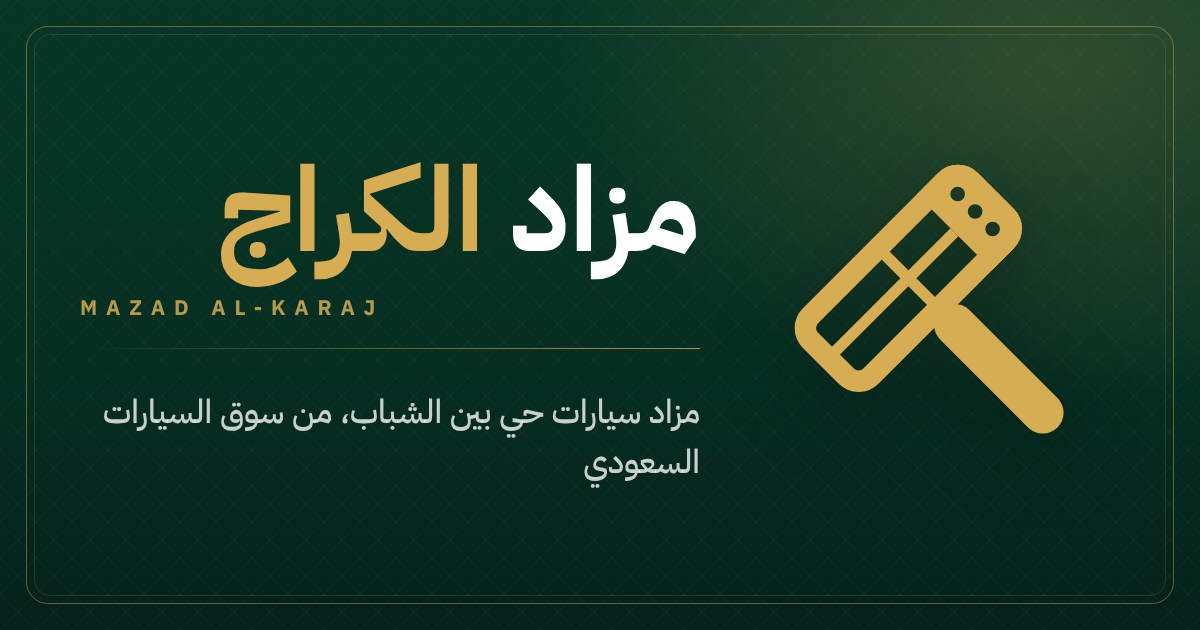
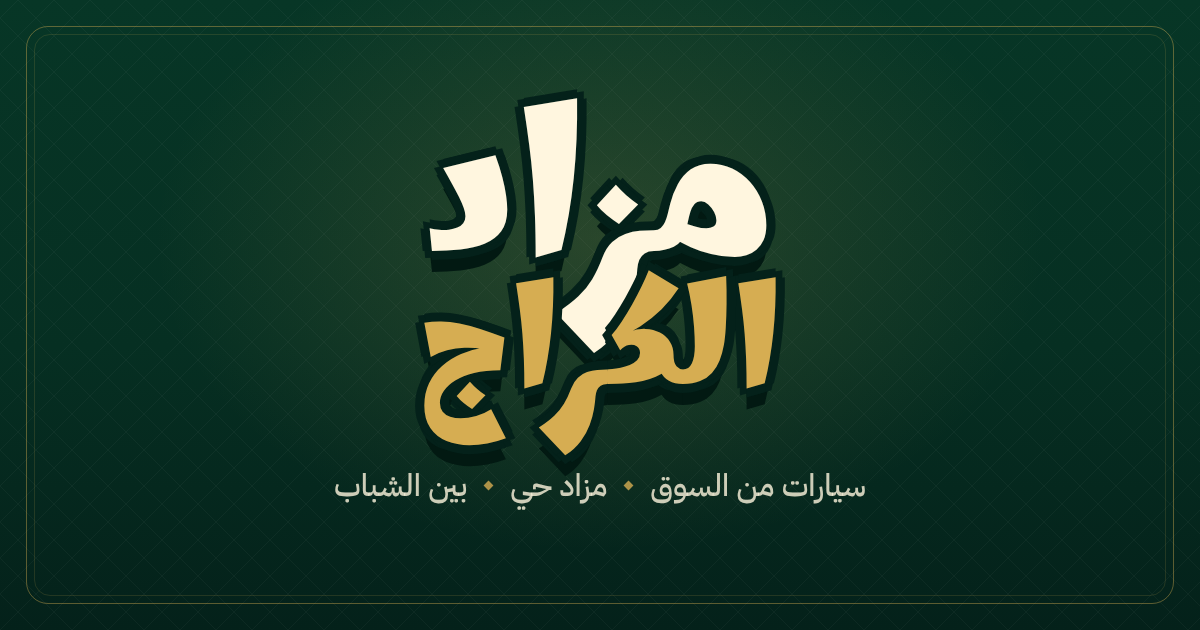
Brand: stacked Marhey title and meem monogram replace the gavel mark
The owner asked for the two words stacked as a playful game title
instead of the plate/gavel concept, so the identity is now type-led:

- Wordmark: «مزاد» over «الكراج» in Marhey Bold (real text), cream over
  gold, sized so both lines run the same width, the ز of «مزاد» dropping
  into the line below; a thin dark ring plus a hard drop shadow keeps
  the locked lines readable and gives the title its sticker feel
- LogoMark: the Marhey «م», outlined to a path (no font needed), used by
  GavelMark in the round header seal
- Header (.brand-name) stacks the existing «مزاد <b>الكراج</b>» markup
  through brand.css only; the seal becomes a round gold ring
- favicon.svg, apple-touch-icon.png and og.png redrawn from the new
  lettering; @fontsource/marhey added (700 weight imported in main.tsx)

Claude-Session: https://claude.ai/code/session_01GJA9LqLvcHsRmQeKeLFNUG

Changed region(s): [[0.0925, 0.0, 1.0, 0.7238], [0.2775, 0.7238, 0.7092, 0.8143], [0.0617, 0.4825, 0.3083, 0.5127]]

diff --git a/src/ui/components/Logo.tsx b/src/ui/components/Logo.tsx
@@ -1,56 +1,24 @@
 /**
- * The brand mark of مزاد الكراج: an auctioneer's gavel whose head is a Saudi number plate.
+ * مزاد الكراج — brand.
  *
- * The head carries the plate's own geometry: the black border, the face split in four (numbers |
- * letters, Arabic over Latin) and the nationality strip at the end, here with three dots where
- * K·S·A sit. The gavel's shaft continues the plate's centre divider, so plate and gavel share one
- * axis. Everything is drawn on a 64-unit grid, tilted 45°, in currentColor.
- *
- * `full` is the mark from ~24px up; `compact` (solid head, strip cut off by a gap) is for favicons
- * and anything ≤ 20px, where the plate's fine lines would turn to mush.
+ * The identity is the stacked title: «مزاد» over «الكراج», set in Marhey Bold (real text, so the
+ * Arabic shapes and joins come from the font), «مزاد» large in cream, «الكراج» smaller in gold so
+ * both lines run the same width, with the ز of «مزاد» dropping into the line below.
+ * The monogram is the Marhey «م» from the same title, outlined to a path so it needs no font.
  */
+
+/** Marhey Bold «م» (isolated), outlined, on a 64-unit square. */
+const MEEM =
+  'M17.57 54Q17.03 51 16.6 47.29Q16.17 43.59 16.17 40.53Q16.17 36.72 17.03 33.56Q17.89 30.39 20.03 28.46Q20.62 27.92 21.38 27.55Q21.48 26.2 21.64 24.7Q21.97 22.07 22.74 19.5Q23.52 16.92 24.84 14.78Q26.15 12.63 28.14 11.31Q30.12 10 32.86 10Q35.86 10 38.57 11.26Q41.28 12.52 43.38 14.75Q45.47 16.98 46.65 19.82Q47.83 22.66 47.83 25.88Q47.83 28.89 46.65 30.69Q45.47 32.48 43.62 33.29Q41.77 34.09 39.73 34.09Q38.12 34.09 36.29 33.69Q34.47 33.29 32.78 32.91Q31.09 32.54 29.75 32.54Q28.73 32.54 28.11 32.97Q27.49 33.4 27.22 34.17Q26.96 34.95 26.96 36.02Q26.96 37.37 27.33 39.16Q27.71 40.96 28.35 42.87Q29 44.77 29.69 46.49Q30.39 48.2 31.03 49.39ZM27.33 26.63Q27.81 26.69 28.4 26.74Q29.8 26.9 31.17 26.9Q32.54 26.9 33.48 26.42Q34.41 25.94 34.41 24.6Q34.41 23.58 33.82 22.72Q33.23 21.86 32.32 21.32Q31.41 20.79 30.5 20.79Q29.32 20.79 28.67 21.43Q28.03 22.07 27.73 23.12Q27.44 24.17 27.39 25.45Q27.39 26.04 27.33 26.63Z';
 
 type MarkProps = {
   size?: number | string;
-  variant?: 'full' | 'compact';
   className?: string;
   title?: string;
 };
 
-/** Shared placement: centre of the shaft at the head, then the 45° tilt (head up-left, toward the name in RTL). */
-const AXIS = 'translate(38.4 38.4) rotate(-45)';
-
-function FullMark() {
-  return (
-    <g transform={AXIS}>
-      {/* plate border */}
-      <rect x="-20.1" y="-21.6" width="40.2" height="15.2" rx="3.1" fill="none" stroke="currentColor" strokeWidth="3.8" />
-      {/* the plate's cross: Arabic over Latin, numbers | letters; the vertical one runs into the shaft */}
-      <path d="M-20 -14H11.6M0 -21.6V-6.4" fill="none" stroke="currentColor" strokeWidth="2" />
-      {/* nationality strip with K·S·A knocked out */}
-      <path
-        fill="currentColor"
-        fillRule="evenodd"
-        d="M11.6 -23.5H17a5 5 0 0 1 5 5v9a5 5 0 0 1-5 5H11.6z M16.8 -19.7a1.3 1.3 0 1 0 0 2.6a1.3 1.3 0 1 0 0-2.6z M16.8 -15.3a1.3 1.3 0 1 0 0 2.6a1.3 1.3 0 1 0 0-2.6z M16.8 -10.9a1.3 1.3 0 1 0 0 2.6a1.3 1.3 0 1 0 0-2.6z"
-      />
-      {/* shaft */}
-      <rect x="-3.7" y="-6" width="7.4" height="29.5" rx="3.7" fill="currentColor" />
-    </g>
-  );
-}
-
-function CompactMark() {
-  return (
-    <g transform={AXIS} fill="currentColor">
-      <path d="M10.2 -23.5H-17a5 5 0 0 0-5 5v9a5 5 0 0 0 5 5H10.2z" />
-      <path d="M13.4 -23.5H17a5 5 0 0 1 5 5v9a5 5 0 0 1-5 5H13.4z" />
-      <rect x="-3.9" y="-5" width="7.8" height="28.5" rx="3.9" />
-    </g>
-  );
-}
-
-/** The mark alone. Colour comes from `color` (currentColor). */
-export function LogoMark({ size = 28, variant = 'full', className, title }: MarkProps) {
+/** The monogram alone, in currentColor. For the round seal, favicons and tight spots. */
+export function LogoMark({ size = 28, className, title }: MarkProps) {
   return (
     <svg
       className={['logomark', className].filter(Boolean).join(' ')}
@@ -62,25 +30,28 @@ export function LogoMark({ size = 28, variant = 'full', className, title }: Mark
       aria-hidden={title ? undefined : true}
       focusable="false"
     >
-      {variant === 'compact' ? <CompactMark /> : <FullMark />}
+      <path d={MEEM} fill="currentColor" transform="translate(0 2.5)" />
     </svg>
   );
 }
 
 /**
- * Mark + name. The name is set in IBM Plex Sans Arabic Bold (never letter-spaced, so the letters
- * stay joined); «الكراج» takes the gold. `twin` adds the Latin line under it, the way the plate
- * prints Latin under Arabic.
+ * The stacked title lockup. Size it with font-size on the element (or `size`, in px, for the
+ * «مزاد» line); everything else is in em, so it scales as one piece.
  */
-export function Wordmark({ size = 28, twin = false, className }: { size?: number; twin?: boolean; className?: string }) {
+export function Wordmark({ size, className }: { size?: number; className?: string }) {
   return (
-    <span className={['wordmark', twin ? 'has-twin' : '', className].filter(Boolean).join(' ')} role="img" aria-label="مزاد الكراج">
-      <LogoMark size={size} className="wordmark-mark" />
-      <span className="wordmark-text" aria-hidden="true">
-        <span className="wordmark-name">
-          مزاد <b>الكراج</b>
-        </span>
-        {twin && <span className="wordmark-twin">MAZAD AL-KARAJ</span>}
+    <span
+      className={['wordmark', className].filter(Boolean).join(' ')}
+      style={size ? { fontSize: size } : undefined}
+      role="img"
+      aria-label="مزاد الكراج"
+    >
+      <span className="wordmark-top" aria-hidden="true">
+        مزاد
+      </span>
+      <span className="wordmark-bottom" aria-hidden="true">
+        الكراج
       </span>
     </span>
   );

diff --git a/src/styles/brand.css b/src/styles/brand.css
@@ -1,72 +1,72 @@
 /* مزاد الكراج — brand layer
-   The mark is a gavel whose head is a Saudi plate (src/ui/components/Logo.tsx).
-   Rules: the mark is gold on green or green on plate-white, never outlined, never recoloured per screen;
-   the name is IBM Plex Sans Arabic Bold, never letter-spaced (the Arabic must stay joined);
-   the Latin twin sits under the Arabic the way the plate prints it, tracked wide, in small caps size. */
+   The title is the identity: «مزاد» stacked over «الكراج» in Marhey Bold, cream over gold, the two
+   lines run the same width and lock together (the ز of «مزاد» drops into the line below).
+   The monogram is the same font's «م» in a round gold seal (src/ui/components/Logo.tsx).
+   Rules: Arabic is never letter-spaced (it breaks the joins); the title keeps its two colours
+   and its hard shadow on every screen; Marhey is for the title only, the UI stays in IBM Plex. */
 
 :root {
+  --f-brand: 'Marhey', 'IBM Plex Sans Arabic', system-ui, sans-serif;
+  --brand-cream: #fff6df;
   --brand-gold: var(--gold-hi);
-  --brand-ink: var(--green-900);
-  --brand-plate: var(--plate);
+  --brand-shadow: #021912;
+  --brand-ring: #04211a;
+  /* a thin ring so the two lines read as layered where they lock, then a hard drop */
+  --brand-type-shadow:
+    .045em 0 0 var(--brand-ring), -.045em 0 0 var(--brand-ring), 0 .045em 0 var(--brand-ring), 0 -.045em 0 var(--brand-ring),
+    .032em .032em 0 var(--brand-ring), -.032em .032em 0 var(--brand-ring), .032em -.032em 0 var(--brand-ring), -.032em -.032em 0 var(--brand-ring),
+    0 .1em 0 var(--brand-shadow);
 }
 
 /* ---------------------------------------------------------------- header lockup */
 
 .brand {
-  gap: 10px;
+  gap: 9px;
 }
 
 .brand-seal {
-  position: relative;
-  width: 38px;
-  height: 38px;
-  border-radius: 10px;
+  width: 40px;
+  height: 40px;
+  border-radius: 50%;
   color: var(--brand-gold);
   background:
-    linear-gradient(160deg, rgba(214, 173, 82, .2), rgba(214, 173, 82, .04) 70%),
-    rgba(4, 33, 26, .35);
+    radial-gradient(circle at 35% 28%, rgba(214, 173, 82, .26), rgba(214, 173, 82, .06) 62%),
+    rgba(2, 25, 18, .4);
   box-shadow:
-    inset 0 0 0 1px rgba(214, 173, 82, .5),
-    inset 0 0 0 3px rgba(4, 33, 26, .55),
-    inset 0 0 0 4px rgba(214, 173, 82, .16),
-    0 1px 0 rgba(255, 255, 255, .06);
+    inset 0 0 0 1.5px rgba(214, 173, 82, .62),
+    inset 0 0 0 4px rgba(2, 25, 18, .5),
+    inset 0 0 0 5px rgba(214, 173, 82, .18),
+    0 2px 0 rgba(2, 25, 18, .55);
 }
 
 .brand-seal .gavelmark,
 .brand-seal .logomark {
-  width: 30px;
-  height: 30px;
+  width: 31px;
+  height: 31px;
   color: var(--brand-gold);
+  filter: drop-shadow(0 1.5px 0 var(--brand-shadow));
 }
 
+/* «مزاد» is the text node, «الكراج» the <b>: stacked, centred, same width */
 .brand-name {
-  display: inline-block;
+  display: inline-grid;
+  justify-items: center;
+  font-family: var(--f-brand);
   font-weight: 700;
-  font-size: 19px;
+  font-size: 27px;
   line-height: 1;
-  word-spacing: -.02em;
   letter-spacing: 0;
+  color: var(--brand-cream);
+  text-shadow: var(--brand-type-shadow);
+  padding-bottom: 3px;
 }
 
 .brand-name b {
-  font-weight: 700;
-}
-
-/* Latin twin under the name, only where the header has room (Home) */
-.apphead .brand-name::after {
-  content: 'MAZAD AL-KARAJ';
   display: block;
-  margin-top: 5px;
-  direction: ltr;
-  text-align: right;
-  font-family: var(--f-ui);
-  font-size: 8px;
+  margin-top: -.2em;
+  font-size: .7em;
   font-weight: 700;
-  letter-spacing: .2em;
-  margin-right: -.2em;
-  line-height: 1;
-  color: rgba(214, 173, 82, .72);
-  white-space: nowrap;
+  color: var(--brand-gold);
 }
 
 @media (max-width: 370px) {
@@ -75,60 +75,42 @@
   }
 
   .brand-seal {
-    width: 34px;
-    height: 34px;
+    width: 36px;
+    height: 36px;
   }
 
   .brand-seal .gavelmark,
   .brand-seal .logomark {
-    width: 27px;
-    height: 27px;
+    width: 28px;
+    height: 28px;
   }
 
   .brand-name {
-    font-size: 18px;
+    font-size: 25px;
   }
 }
 
 /* ---------------------------------------------------------------- standalone wordmark */
 
 .wordmark {
-  display: inline-flex;
-  align-items: center;
-  gap: .4em;
-  color: inherit;
-}
-
-.wordmark-mark {
-  flex: none;
-  color: var(--brand-gold);
-}
-
-.wordmark-text {
-  display: grid;
-  gap: .22em;
+  display: inline-grid;
+  justify-items: center;
+  font-family: var(--f-brand);
+  font-weight: 700;
   line-height: 1;
-}
-
-.wordmark-name {
-  font-family: var(--f-display);
-  font-weight: 700;
+  letter-spacing: 0;
   white-space: nowrap;
-  word-spacing: -.02em;
+  color: var(--brand-cream);
+  text-shadow: var(--brand-type-shadow);
 }
 
-.wordmark-name b {
-  color: var(--brand-gold);
-  font-weight: 700;
+.wordmark-top,
+.wordmark-bottom {
+  display: block;
 }
 
-.wordmark-twin {
-  direction: ltr;
-  justify-self: start;
-  font-size: .42em;
-  font-weight: 700;
-  letter-spacing: .26em;
+.wordmark-bottom {
+  margin-top: -.2em;
+  font-size: .7em;
   color: var(--brand-gold);
-  opacity: .75;
-  white-space: nowrap;
 }

diff --git a/src/main.tsx b/src/main.tsx
@@ -2,6 +2,7 @@ import '@fontsource/ibm-plex-sans-arabic/400.css';
 import '@fontsource/ibm-plex-sans-arabic/500.css';
 import '@fontsource/ibm-plex-sans-arabic/600.css';
 import '@fontsource/ibm-plex-sans-arabic/700.css';
+import '@fontsource/marhey/700.css';
 import './styles/base.css';
 import './styles/app.css';
 import './styles/brand.css';
